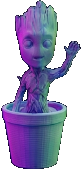
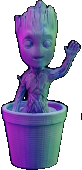
Polish: Improved Transparency Thresholds and Hero Visibility

diff --git a/scripts/slice_assets.py b/scripts/slice_assets.py
@@ -91,7 +91,8 @@ def extract_objects(path, out_dir):
         newData = []
         for item in datas:
             # Check if pixel is dark (black background)
-            if item[0] < 40 and item[1] < 40 and item[2] < 40:
+            # Lower threshold to 15 to preserve dark purple edges of the sphere/ships
+            if item[0] < 20 and item[1] < 20 and item[2] < 20: 
                 newData.append((0, 0, 0, 0)) # Transparent
             else:
                 newData.append(item)
